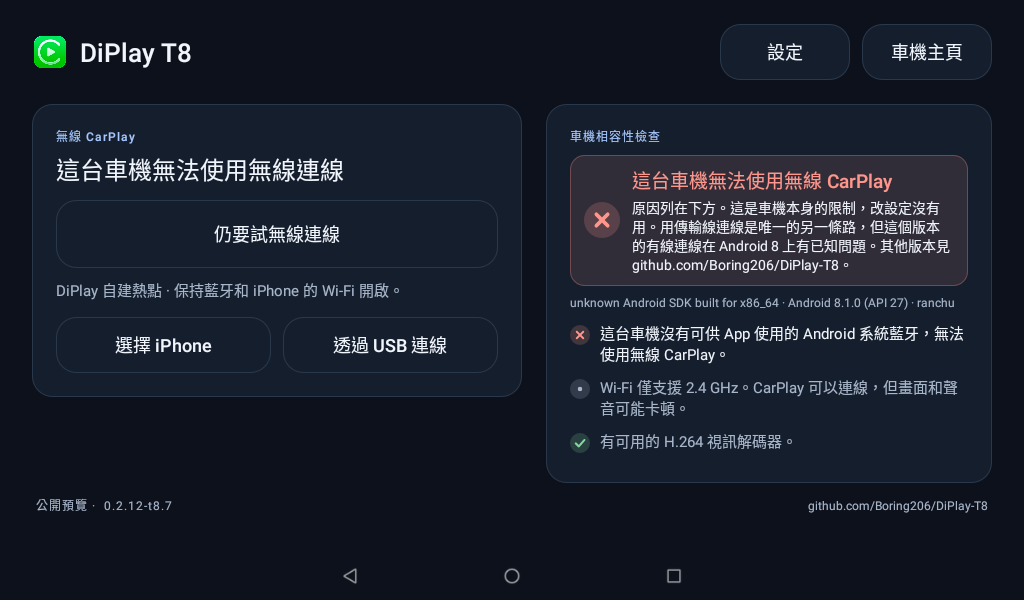
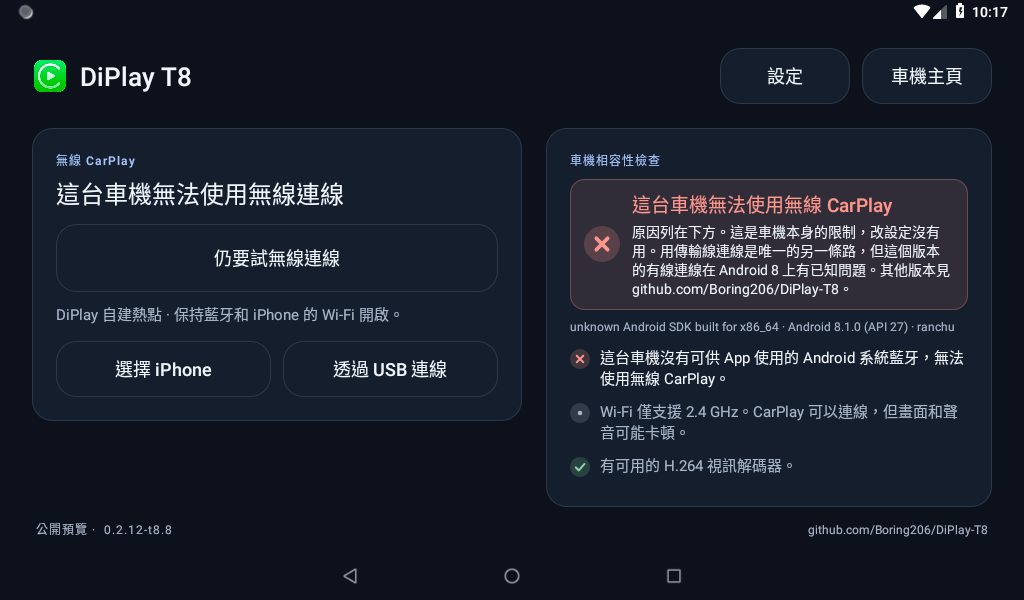
Show the build in use and say what is left beside upstream
The README gains a step-by-step walkthrough made of the emulator's real
screens, a table of what this build still has that upstream's current source
does not (checked against upstream main of 2026-10-09), and a table of what
was exercised by hand and how, down to the rows that could not be: the
Bluetooth test has unit tests only, and nothing here shows an iPhone entering
CarPlay.

diff --git a/README.md b/README.md
@@ -4,6 +4,9 @@
 >
 > **Unofficial fork** of [shihabal3amri/DiPlay](https://github.com/shihabal3amri/DiPlay) 0.2.12 with one purpose: when wireless CarPlay will not connect, it says why on screen, for example Bluetooth that apps cannot use, the car's own hotspot in the way, or an iPhone that does not answer. It installs on Android 8.1 and newer, beside the original app.
 
+**原版負責連上；DiPlay T8 負責在連不上的時候，告訴你為什麼。**
+**Upstream is for connecting. DiPlay T8 is for finding out why it will not.**
+
 **[下載 / Download](https://github.com/Boring206/DiPlay-T8/releases/latest)** · [繁體中文](#繁體中文) · [English](#english) · [車機平台整理 / Head unit platforms](docs/HEAD_UNITS.md)
 
 ![DiPlay T8 首頁：左邊連線，右邊是車機檢查的結論 / Home: connect on the left, the head unit verdict on the right](docs/images/home.png)
@@ -15,6 +18,14 @@
 | 確認可用 / Confirmed working | **0** |
 | 確認不可用 / Confirmed not working | **1**：Allwinner T8，TopWay 韌體 / TopWay firmware |
 | 其他 / Everything else | 未知，[歡迎回報](https://github.com/Boring206/DiPlay-T8/issues/new/choose) / unknown, [reports welcome](https://github.com/Boring206/DiPlay-T8/issues/new/choose) |
+
+### 操作示範 / Walkthrough
+
+![逐步操作示範 / Step-by-step walkthrough](docs/images/demo.gif)
+
+每一張都是 Android 8.1 模擬器上當時的實際畫面，約一分半鐘。同一份示範的影片檔在[發佈頁](https://github.com/Boring206/DiPlay-T8/releases/latest)（`DiPlay-T8-demo.mp4`）。模擬器沒有藍牙，所以**示範裡沒有 iPhone 進入 CarPlay 的畫面**；測了什麼、沒測什麼，見下面的「實際測過什麼」。
+
+Every picture is the real screen at that step on an Android 8.1 emulator; about a minute and a half. The same walkthrough as a video file is on the [release page](https://github.com/Boring206/DiPlay-T8/releases/latest) (`DiPlay-T8-demo.mp4`). The emulator has no Bluetooth, so **no iPhone entering CarPlay is shown**; see "What was actually exercised" below for what was and was not tested.
 
 ---
 
@@ -112,17 +123,48 @@ CarPlay 不需要車機有網路：車機開一個沒有網路的 Wi-Fi 給 iPho
 
 能用或不能用都很有幫助，同型車機的人可以少走冤枉路；目前最缺的是「能用」的回報。請到 [Issues](https://github.com/Boring206/DiPlay-T8/issues/new/choose) 選「車機回報」。最省事的做法是拍一張首頁的照片：結論、原因、車機型號和版本都在同一個畫面上。這是個人維護的專案，維護者自己的車機就是那台不能用的，不保證能回覆或修正。
 
-### 和原版 0.2.12 的差異
+### 和原版比，這個版本還剩什麼
 
-原版後來自己也加入了其中幾項（可裝在 Android 7.1 以上、繁體中文、熱點優先用 IPv4）。
+對照的是原版在 2026-10-09 的原始碼（0.2.15 之後的 `main`）。原版後來自己也加了 Android 7.1 以上的支援、繁體中文和熱點優先用 IPv4，那幾項已經不算差異。
 
-- 首頁的車機檢查：一個結論加上逐項原因，並記住上一次連線測出的藍牙結果。
-- 連線畫面寫出確切的原因和紀錄；判定「藍牙連線是假的」的車機。
-- 先準備藍牙再啟動熱點；Android 11 以下會自動開啟藍牙。
-- Android 8／9 提供 App 自建熱點（不用輸入名稱和密碼），並在只有一個 Wi-Fi 天線的車機上正確找到熱點介面。
-- 車機自帶的熱點開著時提供三種處理方式，包含由 App 自動關閉它。
-- 同一個 Wi-Fi 上可讀的診斷報告。
-- 安裝檔不含 CarPlay 認證資料；套件名稱為 `com.shihab.diplay.t8`。
+| | 原版 DiPlay | DiPlay T8 |
+|---|---|---|
+| 最低 Android 版本 | 7.1 | 8.1 |
+| 連線前的車機檢查，給一個結論 | 沒有 | 有 |
+| 判定「藍牙回報的連線是假的」並記住 | 沒有（只把藍牙狀態寫進紀錄） | 有 |
+| 先查藍牙，再動車機的 Wi-Fi | 先開熱點，再查藍牙 | 有；藍牙關著時還會自動開啟（Android 11 以下） |
+| Android 8／9 不用輸入名稱密碼的自建熱點 | 沒有（要輸入車機熱點的名稱密碼，或用現成的 Wi-Fi） | 有 |
+| 車機自帶的熱點開著時，由 App 處理 | 沒有 | 有，三種方式 |
+| 同一個 Wi-Fi 上用瀏覽器讀診斷報告 | 沒有 | 有 |
+| 安裝檔裡的 CarPlay 認證資料 | 內含 | 不含，從已安裝的原版複製 |
+| Android 8 的有線 USB | 已修正，尚未發佈 | 有已知問題 |
+| Android 9 以下的通話與 Siri 麥克風 | 已修正，尚未發佈 | 可能沒有聲音 |
+| 0.2.12 之後的介面改版、深淺色主題、更新檢查 | 有 | 沒有 |
+| 維護 | 很活躍，幾乎每天發佈 | 一個人，有空才做 |
+
+所以分工很單純：**要連上 CarPlay，用原版；原版連不上、想知道是車機不行還是設定沒弄好，加裝這個。**
+
+### 實際測過什麼
+
+1,240 項單元測試全數通過。下面是實際操作過的部分，都在 Android 8.1 模擬器上。
+
+| 功能 | 怎麼測的 | 結果 |
+|---|---|---|
+| 覆蓋安裝舊版、全新安裝 | 模擬器 | 通過 |
+| 從已安裝的原版 0.2.15 複製認證資料；裝好後回到 App 自動恢復 | 模擬器 | 通過 |
+| 首頁的車機檢查與結論 | 模擬器（沒有藍牙，所以是「無法使用」）；另外三種結論只有單元測試 | 通過 |
+| 沒有藍牙時按連線：直接說明，車機的 Wi-Fi 不被打斷 | 模擬器；連線前後 Wi-Fi 都維持連線 | 通過 |
+| 連線畫面的原因與下一步 | 模擬器（「沒有藍牙」這一種）；其他原因只有單元測試 | 通過 |
+| USB 模式的等待畫面 | 模擬器，沒有接 iPhone | 畫面正常；實際的有線連線沒有測 |
+| 診斷報告：App 內檢視、同一個 Wi-Fi 上讀取 | 模擬器 | 通過 |
+| App 自建熱點 | 模擬器、略過藍牙的測試版、一支模擬手機：加入熱點、取得 IP、用 mDNS 找到 CarPlay 服務、連上 7000 埠得到 `200 OK` | 通過 |
+| 車機熱點開著：由 App 關閉後自建熱點 | 同上 | 通過 |
+| 車機熱點開著：輸入名稱密碼直接使用 | 同上 | 通過 |
+| 寬螢幕、直向、小螢幕三種版面 | 模擬器 | 通過 |
+| 「藍牙連線是假的」的判定與記住結果、配對停在「配對中」的警告、自動開啟藍牙 | 只有單元測試，因為模擬器沒有藍牙 | **沒有在真的藍牙上跑過** |
+| iPhone 的畫面、聲音和觸控；有線連線；麥克風 | 沒有測 | **需要真的車機和 iPhone** |
+
+沒有合適的車機也可以幫忙補上最後兩列：任何 Android 8.1 以上、藍牙正常的舊手機或平板都可以當接收端，裝上原版和 DiPlay T8，用 iPhone 連連看，再把結果[回報](https://github.com/Boring206/DiPlay-T8/issues/new/choose)。
 
 ### 自行編譯
 
@@ -220,17 +262,48 @@ The screen names the cause: no Android Bluetooth, Bluetooth whose connections ar
 
 A report helps whether it worked or not: owners of the same unit learn what to expect, and reports of success are what is missing most. Open [an issue](https://github.com/Boring206/DiPlay-T8/issues/new/choose) and choose "Head unit report". The easiest way is a photo of the home page: verdict, reasons, unit and version are all on that one screen. One person maintains this in spare time, and their own head unit is the one that cannot run it; an answer or a fix is not promised.
 
-### What differs from upstream 0.2.12
+### What this build still has that upstream does not
 
-Upstream has since added some of this itself (Android 7.1 and newer, Traditional Chinese, IPv4 first on hotspots).
+Compared with upstream's source on 2026-10-09 (`main` after 0.2.15). Upstream has since added Android 7.1 support, Traditional Chinese and IPv4 first on hotspots itself, so those no longer count.
 
-- A head unit check on the home page: one verdict with the reasons under it, remembering what the last connection found out about Bluetooth.
-- Exact causes and log lines on the connecting screen, and a test for Bluetooth links that are not real.
-- Bluetooth is prepared before the hotspot and switched on by the app up to Android 11.
-- An app-owned hotspot on Android 8 and 9 (no name or password to type), found correctly on single-radio head units.
-- Three ways forward when the car's own hotspot is on, including letting the app turn it off.
-- A diagnostic report readable from the same Wi-Fi.
-- An APK without the CarPlay identity; package `com.shihab.diplay.t8`.
+| | Upstream DiPlay | DiPlay T8 |
+|---|---|---|
+| Minimum Android | 7.1 | 8.1 |
+| A head unit check before connecting, with one verdict | no | yes |
+| A test for Bluetooth connections that are not real, remembered afterwards | no (Bluetooth state goes to the log only) | yes |
+| Bluetooth checked before the unit's Wi-Fi is touched | hotspot first, Bluetooth after | yes, and Bluetooth is switched on by the app up to Android 11 |
+| An app-owned hotspot on Android 8 and 9, nothing to type | no (type the car hotspot's name and password, or use an existing Wi-Fi) | yes |
+| Handling the car's own hotspot when it is on | no | yes, three ways |
+| The diagnostic report in a browser on the same Wi-Fi | no | yes |
+| CarPlay identity inside the APK | bundled | not bundled; copied from the installed original |
+| Wired USB on Android 8 | fixed, not released yet | known fault |
+| Microphone for calls and Siri below Android 10 | fixed, not released yet | may be silent |
+| The interface redesign, light and dark themes and update check after 0.2.12 | yes | no |
+| Maintenance | very active, a release almost daily | one person, in spare time |
+
+So the split is simple: **to get CarPlay running, use upstream; when upstream will not connect and you want to know whether it is the unit or a setting, add this one.**
+
+### What was actually exercised
+
+All 1,240 unit tests pass. The rows below were done by hand, all on an Android 8.1 emulator.
+
+| Feature | How | Result |
+|---|---|---|
+| Update over an older version; clean install | emulator | pass |
+| Copying the identity from an installed upstream 0.2.15; recovery on return after installing it | emulator | pass |
+| The head unit check and its verdict | emulator (no Bluetooth, so "cannot"); the other three verdicts by unit tests only | pass |
+| Connect with no Bluetooth: an explanation, and the unit's Wi-Fi is left alone | emulator; Wi-Fi stayed connected before and after | pass |
+| Cause and next step on the connecting screen | emulator (the "no Bluetooth" cause); other causes by unit tests only | pass |
+| The waiting screen of USB mode | emulator, no iPhone attached | screen correct; a real wired connection was not tested |
+| The report: in the app, and from the same Wi-Fi | emulator | pass |
+| The app-owned hotspot | emulator, a test build that skips Bluetooth, and a simulated phone: joined, got an address, found the CarPlay service by mDNS, got `200 OK` from port 7000 | pass |
+| Car hotspot on: the app turns it off and opens its own | same | pass |
+| Car hotspot on: its name and password typed, used as it is | same | pass |
+| Wide, portrait and small-screen layouts | emulator | pass |
+| The "connections that are not real" test and its memory, the warning for a bond stuck in "bonding", switching Bluetooth on | unit tests only: the emulator has no Bluetooth | **never run on real Bluetooth** |
+| Picture, sound and touch from an iPhone; the cable; the microphone | not tested | **needs a real head unit and an iPhone** |
+
+You can help fill the last two rows without a suitable head unit: any old Android 8.1+ phone or tablet with ordinary Bluetooth can act as the receiver. Install upstream and DiPlay T8 on it, connect an iPhone, and [report](https://github.com/Boring206/DiPlay-T8/issues/new/choose) what happened.
 
 ### Build
 
